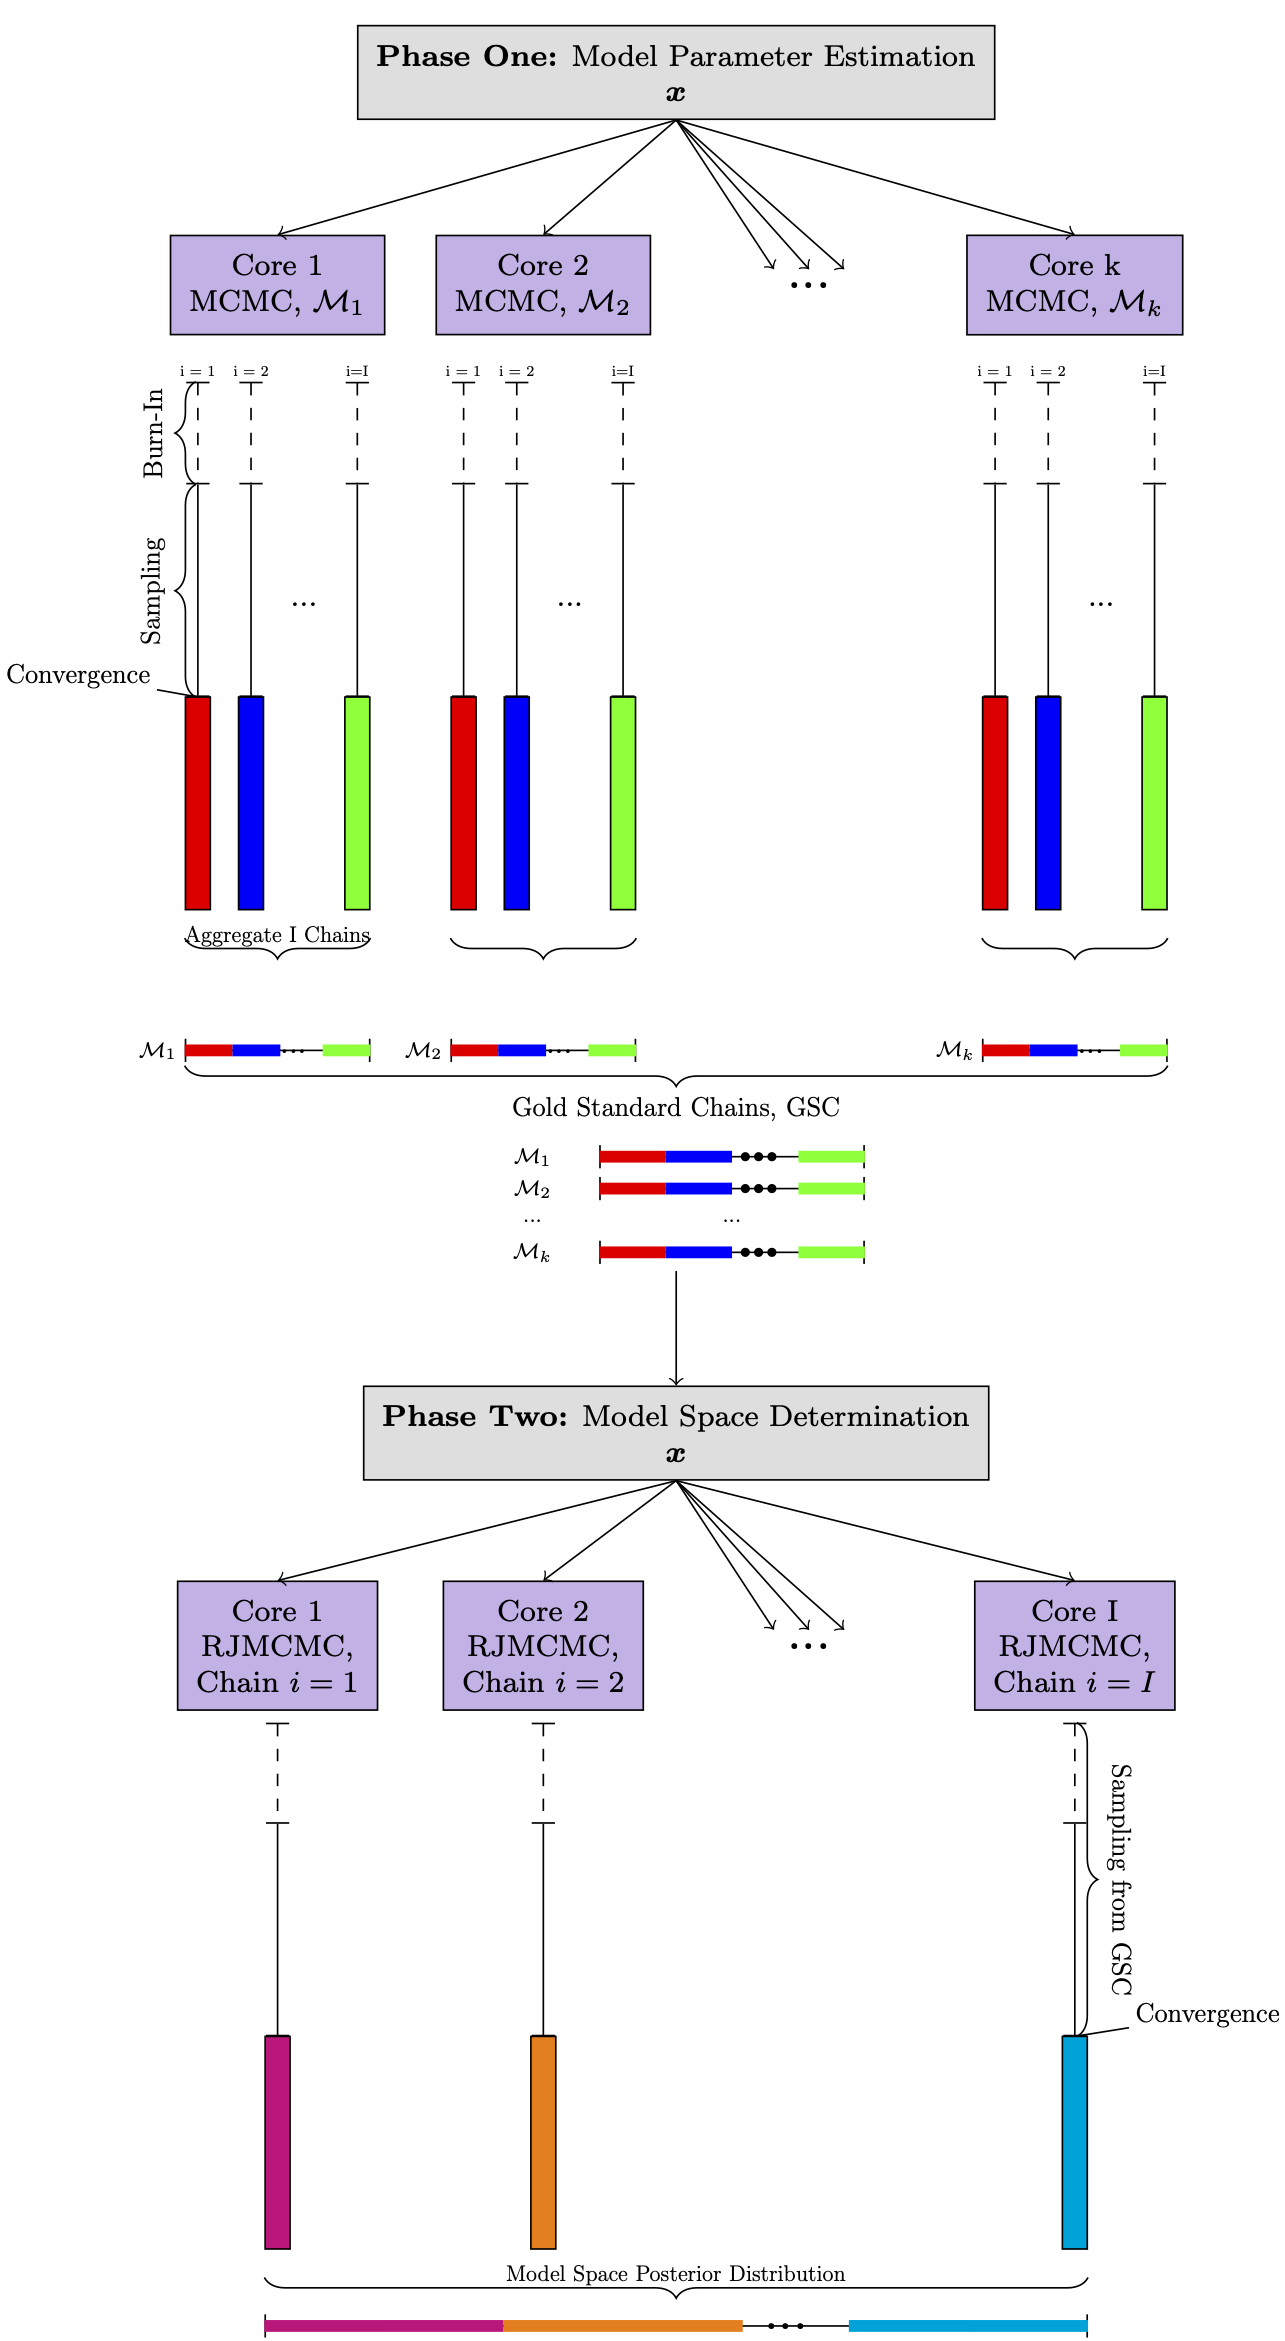
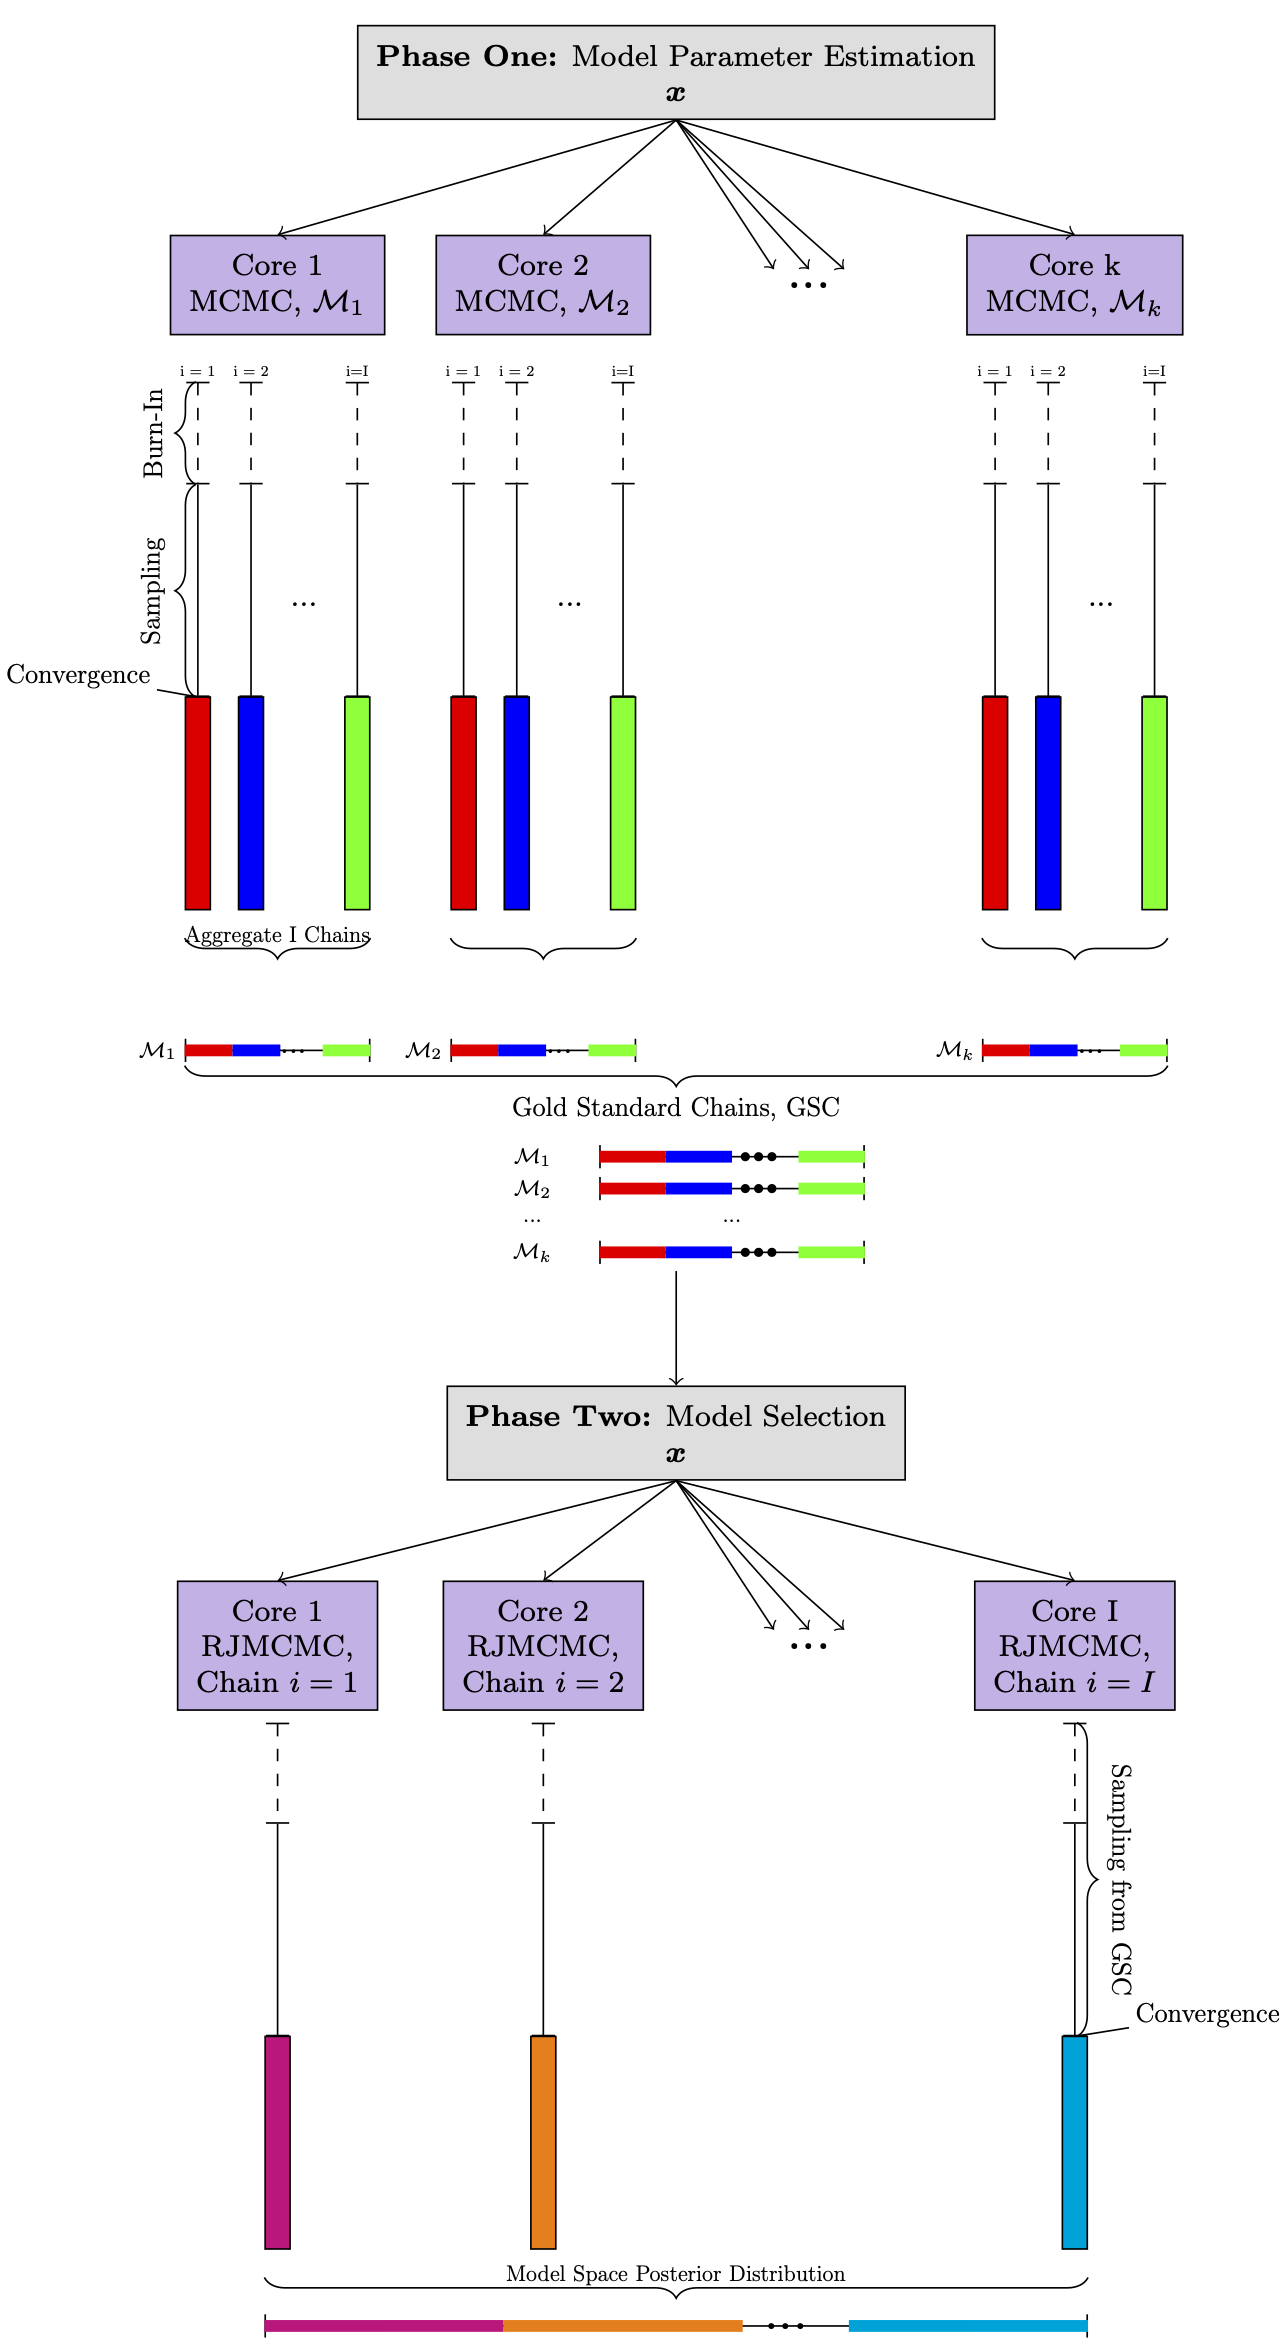
minor chnages to figure diagram

Changed region(s): [[0.2802, 0.5925, 0.7782, 0.6548]]

diff --git a/docs/rjmcmcDiagram/rjmcmcDiagram.tex b/docs/rjmcmcDiagram/rjmcmcDiagram.tex
@@ -214,7 +214,7 @@ F/.style={anchor=west}
 %%%%%%%%%%%%%%%%%%%%%%%%%%%%%%%%%%%%%%%%%%%%%%%%%%%%%
 %Start RJMCMC 
 \node[] at ($(computer) + (0, -5.7)$) (blankNode) {}; 
-\node[main, label=above:] at ($(computer) + (0,-6.4)$) (RJMCMC) {\textbf{Phase Two:} Model Space Determination \\ $\data$};
+\node[main, label=above:] at ($(computer) + (0,-6.4)$) (RJMCMC) {\textbf{Phase Two:} Model Selection\\ $\data$};
 
 \draw[->] (blankNode.north) -- (RJMCMC);
 % Draw cores for chain 
